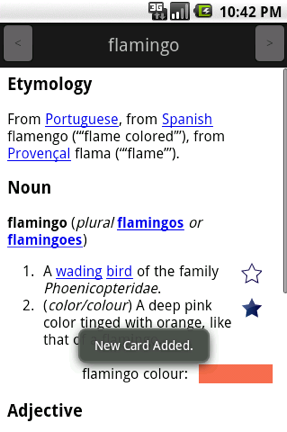
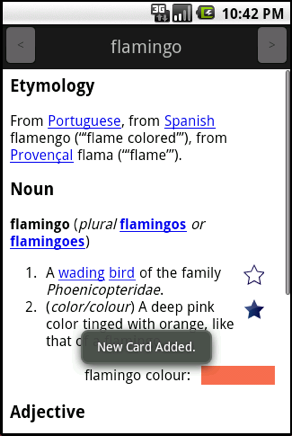
modded files and help file... looks good now

Changed region(s): [[0.0, 0.0, 1.0, 1.0], [0.8362, 0.6921, 0.9199, 0.7523], [0.8362, 0.6019, 0.9199, 0.662]]

diff --git a/rdict-android/assets/rdict_help.html b/rdict-android/assets/rdict_help.html
@@ -216,13 +216,11 @@ Do flashcard quizzes prepared by RDict to remember the words you look up.
   </small>
 </h2>
 When setup finishes, RDict&nbsp;shows you&nbsp;four tabs at the bottom of the screen.
-<br>
-<br>
+
 <p class="centeredImage">
 <img src="file:///android_asset/tabs.png" alt="">
 </p>
-<br>
-<br>
+
 Each tab gives you access to different features:
 <br>
 <ul>
@@ -264,9 +262,8 @@ up the definition of words; this screen is also the place where you tell RDict w
   When&nbsp;RDict first loads, it always displays the Search tab first. &nbsp;The picture below shows the Search screen
   just after Setup.
 </p>
-<p>
+
   <p class="centeredImage"> <img src="file:///android_asset/after_setup.png" alt=""></p>
-</p>
 <h3>
   <a name="Searching">
   </a>
@@ -327,7 +324,7 @@ In the dictionary page for a word, some words will appear in blue. Blue words ar
 them and RDict will show you the definition for the word. &nbsp;No typing required.
 <br>
 <h3>
-  <p class="centeredImage"> <img src="file:///android_asset/shortcut_closeup.png" alt=""></p>
+  <p class="centeredImage"> <img src="file:///android_asset/shortcut.png" alt=""></p>
 </h3>
 <h3>
   <a name="Backwards_and_Forwards_Navigation">
@@ -344,13 +341,10 @@ them and RDict will show you the definition for the word. &nbsp;No typing requir
 At times, you may want to compare the definitions of two words, or simply review a definition you looked up previously,
 after using a shortcut. &nbsp;For your convenience, dictionary pages in RDict&nbsp;have 'Backwards' and 'Forwards'
 arrows at the top of the screen. &nbsp;These arrows are just like the buttons on your web browser.
-<br>
-<br>
+
 <p class="centeredImage"> <img 
     alt="Backwards and Forwards Navigation"
-    src="file:///android_asset/backwards_in_search_closeup.png"></p>
-
-<br>
+    src="file:///android_asset/backwards_in_search.png"></p>
 <h3>
   <a name="The_Star_Button">
   </a>
@@ -366,21 +360,16 @@ arrows at the top of the screen. &nbsp;These arrows are just like the buttons on
 You've probably already noticed the star&nbsp;buttons on the dictionary screen <img src="file:///android_asset/star_off.png" alt="">
 . Their purpose is as follows: if, after looking up a word, you decide that this is a word you'd like help with
 remembering, use&nbsp;the star button.
-<br>
-<br>
-<p class="centeredImage"> <img src="file:///android_asset/star_highlight_closeup.png" alt=""></p>
-<br>
-<br>
+
+<p class="centeredImage"> <img src="file:///android_asset/star_highlight.png" alt=""></p>
+
 To use the star button, review the definitions in the dictionary page, and press the star beside the definition you
 would like to remember. &nbsp;When you press the star button, RDict creates a new flashcard for the word and adds it to
 your card collection. &nbsp;After you press the star button, RDict shows you a brief message to confirm that the
 definition was added.
-<br>
-<br>
+
 <p class="centeredImage"> <img src="file:///android_asset/card_added.png" alt=""> </p>
-<br>
-<br>
-<br>
+
 So far, we've talked about the dictionary part of RDict. &nbsp;In this section, we describe how RDict uses the flashcard
 collection you build with the dictionary and star button to help you to remember the words you look up.
 <br>
@@ -412,11 +401,9 @@ you've selected for review with the star button. &nbsp;Let's look at reviewing i
 </h3>
 Pressing the review tab brings you to the Review Home screen. The Review Home screen has two main sections: the Exercise
 section (the top half of the screen), and the Study Statistics section (the bottom half).
-<br>
-<br>
+
 <p class="centeredImage"> <img src="file:///android_asset/todays_scheduled_and_review_tab.png" alt=""> </p>
-<br>
-<br>
+
 Here's a description:
 <br>
 <ul>
@@ -476,25 +463,19 @@ look at the screenshot of the tab bar shown below.
 <p class="centeredImage"> <img src="file:///android_asset/review_tab_closeup.png" alt=""> </p>
 See the little '12' number on the 'Review' tab?&nbsp; That number is telling you that there are 12 cards scheduled for
 practice today.&nbsp; The number is updated each day, according to how many cards are scheduled for practice.
-<br>
-<br>
+
 <p class="centeredImage"> <img alt="" src="file:///android_asset/todays_scheduled_label.png"></p>
-<br>
-<br>
+
 There is also another type of review exercise called Looked up Today. &nbsp;In this exercise, you practice the cards
 that you have selected for review with the star button today.
-<br>
-<br>
+
 <p class="centeredImage"> <img alt="" src="file:///android_asset/early_practice_message.png"></p>
-<br>
-<br>
+
 When there are no cards scheduled for today, or if you have not selected any words for review today, then the Review
 Exercises will show a message like the following:
-<br>
-<br>
+
 <p class="centeredImage"> <img src="file:///android_asset/no_review_exercises_label.png" alt=""></p>
-<br>
-<br>
+
 Next, let's look at how a flashcard quiz actually works.
 <h3>
   <a name="Flashcard_Quizzes">
@@ -513,19 +494,15 @@ today's scheduled cards and shows you each&nbsp;card, one at a time.
 <br>
 <br>
 First, you'll see the front of the card. The front will have a word on it, like in the example below.
-<br>
-<br>
+
 <p class="centeredImage"> <img src="file:///android_asset/flashcard_front.png" alt=""> </p>
-<br>
-<br>
+
 By showing you the front of a card, RDict is challenging you to remember the definition. Try to remember it. &nbsp;Once
 you've remembered the definition (or realized you've forgotten it), press 'View Answer'. This will flip the card over to
 the other side, revealing the definition of the word (shown below).
-<br>
-<br>
+
 <p class="centeredImage"> <img src="file:///android_asset/flashcard_back.png" alt=""> </p>
-<br>
-<br>
+
 Did you remember the definition correctly? Was it easy? Or did you forget? RDict wants to know! Tell RDict how easy or
 hard it was for you to remember the definition by using one of the five buttons that appear on the bottom of the card.
 For example, if you have totally forgotten the definition, press the 'I forget' button.
@@ -557,11 +534,9 @@ you how your total number of cards has grown over the past 30 days.
 <br>
 The second statistic is a score representing how well you know the cards in your collection. &nbsp;The score is a
 percentage, with 100% being the maximum score and 0% the minimum. &nbsp;
-<br>
-<br>
+
 <p class="centeredImage"> <img alt="" src="file:///android_asset/study_statistics.png"> </p>
-<br>
-<br>
+
 RDict calculates your score in the following way. &nbsp;First, it calculates the average of each individual word score
 over the last three quizzes. &nbsp;We call this the card score. &nbsp;The overall score is the average card score, for
 all the cards in your collection. &nbsp;To get the maximum, score, you have to be able to easily recall all the words in
@@ -678,11 +653,9 @@ The Search and Review tabs in RDict are the main tabs where you'll do most of yo
 We've included a Manage screen to allow you to control your flashcard collection. &nbsp;Like the description located to
 the left of the button says, from this screen you can Add cards, or Edit and Delete cards in your collection.
 &nbsp;Pressing the Manage button launches the Card Manager screen, which looks like the following:
-<br>
-<br>
+
 <p class="centeredImage"> <img src="file:///android_asset/manage_cards_list.png" alt=""> </p>
-<br>
-<br>
+
 Editing and Deleting cards is accomplished in two steps.
 <br>
 <br>
@@ -696,11 +669,9 @@ Stop scrolling when you see the card you want, and press the button to the right
 <br>
 <br>
 The Edit Screen should resemble something like the screen below.
-<br>
-<br>
+
 <p class="centeredImage"> <img src="file:///android_asset/edit_or_delete.png" alt=""> </p>
-<br>
-<br>
+
 Using the Edit screen is straightforward:
 <br>
 <ul>
@@ -752,7 +723,7 @@ Change the maximum amount of cards you are able to view per day.
 </h2>
 <p>
   The description, pictures and all other contents of this file are the property of AmplioStudios and may not be
-  reproduced without permission. &nbsp;Please contact steve@ampliostudios.com if you have any questions.
+  reproduced without permission. &nbsp;Please contact support@ampliostudios.com if you have any questions.
 </p>
 <p>
   Copyright AmplioStudios 2009 - 2010. &nbsp;All Rights Reserved.

diff --git a/rdict-android/assets/rdict_about.html b/rdict-android/assets/rdict_about.html
@@ -169,7 +169,7 @@ for more license-related information.</p>
 <h2>Copyright Notice</h2>
 The description, pictures and all other contents of this file are the
 property of AmplioStudios and may not be reproduced without
-permission.&nbsp; Please contact steve@ampliostudios.com if you have
+permission.&nbsp; Please contact support@ampliostudios.com if you have
 any questions.<br>
 <br>
 Copyright AmplioStudios 2009 - 2010.&nbsp; All Rights Reserved.
